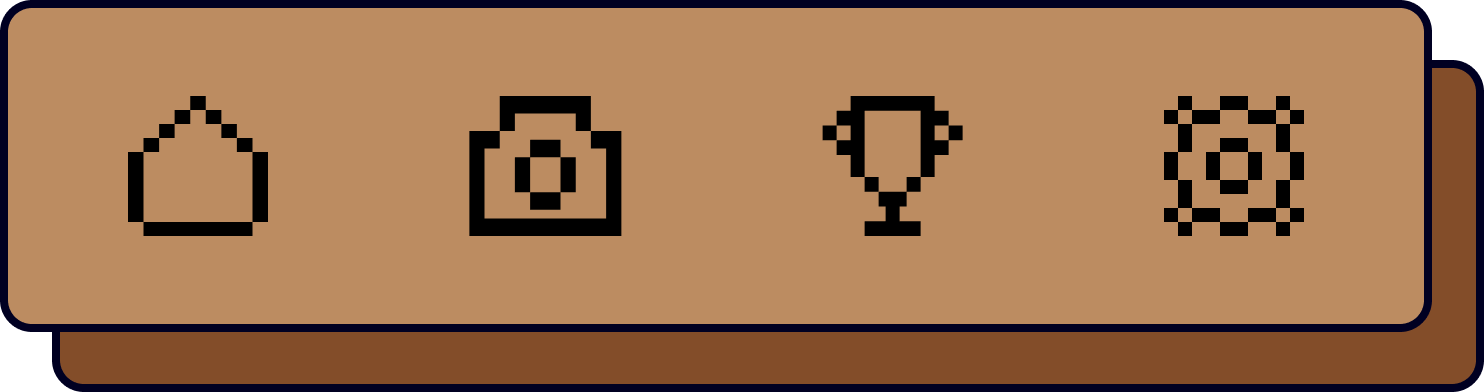
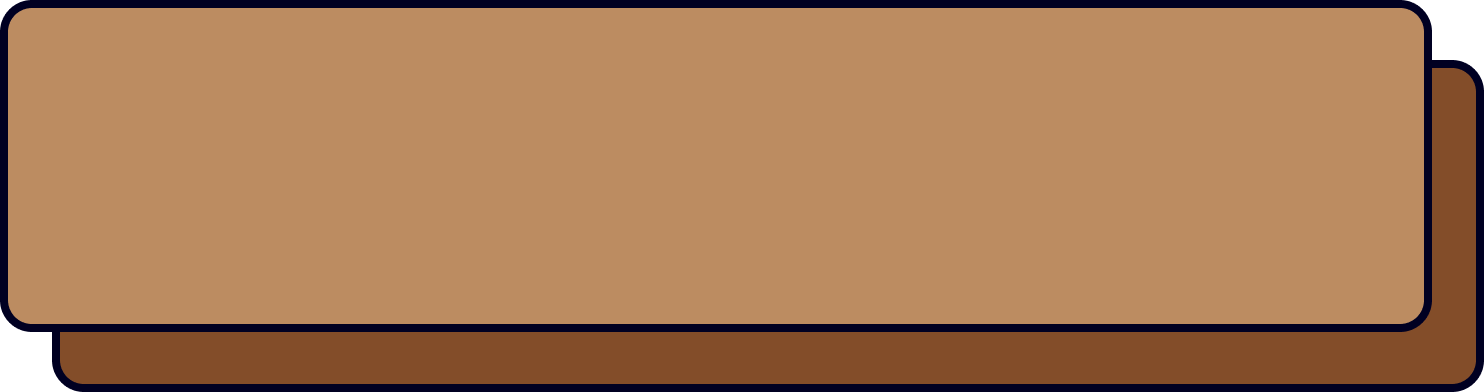
StatusBarsコンポーネントに新しいプロパティを追加し、HomeScreenでの背景画像を設定

diff --git a/src/screens/HomeScreen.tsx b/src/screens/HomeScreen.tsx
@@ -1,5 +1,10 @@
 import React, { useState } from 'react';
-import { View, TouchableOpacity, StyleSheet } from 'react-native';
+import {
+  View,
+  TouchableOpacity,
+  StyleSheet,
+  ImageBackground,
+} from 'react-native';
 import { SafeAreaView } from 'react-native-safe-area-context';
 import type { BottomTabScreenProps } from '@react-navigation/bottom-tabs';
 import type { RootTabParamList } from '../navigation/AppNavigator';
@@ -39,53 +44,62 @@ export default function HomeScreen({ navigation }: Props) {
   };
 
   return (
-    <SafeAreaView style={styles.safeArea} edges={['top', 'left', 'right']}>
-      {/*
-       * ScrollView を廃止し、フラットな flex column レイアウトに変更。
-       * ScrollView 内では子の flex:1 が高さゼロに折りたたまれ、
-       * MainActionArea（羊皮紙）が表示されない問題が発生していたため。
-       */}
-      <View style={styles.content}>
-        {/* A. ヘッダー（プロフィール） */}
-        <HeaderProfile title={title} userName={userName} />
+    <ImageBackground
+      source={require('../../asset/home/images/background screen.png')}
+      style={styles.screenBackground}
+      resizeMode="cover"
+    >
+      <SafeAreaView style={styles.safeArea} edges={['top', 'left', 'right']}>
+        <View style={styles.content}>
+          {/* A. ヘッダー（プロフィール） */}
+          <HeaderProfile title={title} userName={userName} />
 
-        {/* B. ステータスバー（HP/MP風ゲージ） */}
-        <StatusBars level={level} />
+          {/* B. ステータスバー（HP/MP風ゲージ） */}
+          <StatusBars
+            level={level}
+            gameRatio={Math.min(gameLimitMin / 60, 1)}
+            smartphoneRatio={Math.min(smartphoneLimitMin / 60, 1)}
+            levelRatio={Math.min(level / 10, 1)}
+          />
 
-        {/* C. 制限時間・ステータス表示 */}
-        <TimeDisplay
-          gameLimitMin={gameLimitMin}
-          smartphoneLimitMin={smartphoneLimitMin}
-          level={level}
-        />
+          {/* C. 制限時間・ステータス表示 */}
+          <TimeDisplay
+            gameLimitMin={gameLimitMin}
+            smartphoneLimitMin={smartphoneLimitMin}
+            level={level}
+          />
 
-        {/* D. メインエリア（地図/羊皮紙）— flex:1 で残り全高を占有 */}
-        <MainActionArea
-          hasHomework={hasHomework}
-          homeworkList={homeworkList}
-          onRegisterPress={handleRegisterPress}
-        />
+          {/* D. メインエリア（地図/羊皮紙）— flex:1 で残り全高を占有 */}
+          <MainActionArea
+            hasHomework={hasHomework}
+            homeworkList={homeworkList}
+            onRegisterPress={handleRegisterPress}
+          />
 
-        {/* 開発用: 宿題登録状態の切り替えボタン */}
-        {__DEV__ && (
-          <TouchableOpacity
-            style={styles.devToggle}
-            onPress={() => setHasHomework((prev) => !prev)}
-          >
-            <AppText style={styles.devToggleText}>
-              [DEV] 宿題状態: {hasHomework ? 'あり' : 'なし'}
-            </AppText>
-          </TouchableOpacity>
-        )}
-      </View>
-    </SafeAreaView>
+          {/* 開発用: 宿題登録状態の切り替えボタン */}
+          {__DEV__ && (
+            <TouchableOpacity
+              style={styles.devToggle}
+              onPress={() => setHasHomework((prev) => !prev)}
+            >
+              <AppText style={styles.devToggleText}>
+                [DEV] 宿題状態: {hasHomework ? 'あり' : 'なし'}
+              </AppText>
+            </TouchableOpacity>
+          )}
+        </View>
+      </SafeAreaView>
+    </ImageBackground>
   );
 }
 
 const styles = StyleSheet.create({
+  screenBackground: {
+    flex: 1,
+  },
   safeArea: {
     flex: 1,
-    backgroundColor: '#0a0a14',
+    backgroundColor: 'transparent',
   },
   content: {
     flex: 1,

diff --git a/src/components/StatusBars.tsx b/src/components/StatusBars.tsx
@@ -4,6 +4,9 @@ import AppText from './AppText';
 
 interface StatusBarsProps {
   level: number;
+  gameRatio?: number;
+  smartphoneRatio?: number;
+  levelRatio?: number;
 }
 
 /**
@@ -13,14 +16,18 @@ interface StatusBarsProps {
  */
 const STATUS_BAR_ASPECT_RATIO = 325 / 87; // ≈ 3.74
 
-export default function StatusBars({ level }: StatusBarsProps) {
+function clamp01(value: number) {
+  return Math.max(0, Math.min(1, value));
+}
+
+export default function StatusBars({
+  level,
+  gameRatio = 1,
+  smartphoneRatio = 1,
+  levelRatio = 1,
+}: StatusBarsProps) {
   return (
     <View style={styles.container}>
-      {/*
-       * Image を非絶対配置にすることで、親 View の高さが
-       * アスペクト比から自動計算される。
-       * その親 View を参照して Lv バッジを absolute 配置できる。
-       */}
       <Image
         source={require('../../asset/home/images/Status bar.png')}
         style={styles.barImage}
@@ -43,20 +50,39 @@ const styles = StyleSheet.create({
   },
   barImage: {
     width: '100%',
-    /*
-     * height: undefined + aspectRatio で縦横比を保持。
-     * 固定 height は画像が潰れる原因となるため使用しない。
-     */
     height: undefined,
     aspectRatio: STATUS_BAR_ASPECT_RATIO,
     backgroundColor: 'transparent',
   },
+  gaugeLayer: {
+    position: 'absolute',
+    left: '28%',
+    right: '10%',
+    top: '18%',
+    bottom: '18%',
+    justifyContent: 'space-between',
+    backgroundColor: 'transparent',
+  },
+  gaugeTrack: {
+    width: '100%',
+    height: '23%',
+    justifyContent: 'center',
+    overflow: 'hidden',
+    backgroundColor: 'transparent',
+  },
+  gaugeTrackTop: {
+    marginBottom: '2%',
+  },
+  gaugeTrackMiddle: {
+    marginBottom: '2%',
+  },
+  gaugeTrackBottom: {},
+  gaugeFill: {
+    height: '100%',
+    backgroundColor: 'transparent',
+  },
   levelBadge: {
     position: 'absolute',
-    /*
-     * Figma: Lv.1 テキストは画像左端から約 26% の位置。
-     * 視覚的に円形フレームの中心に合わせる。
-     */
     left: 0,
     top: 0,
     bottom: 0,

diff --git a/src/navigation/CustomTabBar.tsx b/src/navigation/CustomTabBar.tsx
@@ -15,7 +15,6 @@ import type { BottomTabBarProps } from '@react-navigation/bottom-tabs';
  * これにより ImageBackground 自体が間延びしない。
  */
 const TAB_BAR_HEIGHT = 83;
-const TAB_BAR_BG_COLOR = '#8a5a22';
 
 const TAB_ICONS = {
   Home: require('../../asset/home/images/Home icon.png'),
@@ -97,7 +96,7 @@ export default function CustomTabBar({
 
 const styles = StyleSheet.create({
   wrapper: {
-    backgroundColor: TAB_BAR_BG_COLOR,
+    backgroundColor: 'transparent',
   },
   tabBar: {
     height: TAB_BAR_HEIGHT,
@@ -115,6 +114,6 @@ const styles = StyleSheet.create({
     height: 34,
   },
   safeAreaExtension: {
-    backgroundColor: TAB_BAR_BG_COLOR,
+    backgroundColor: 'transparent',
   },
 });
